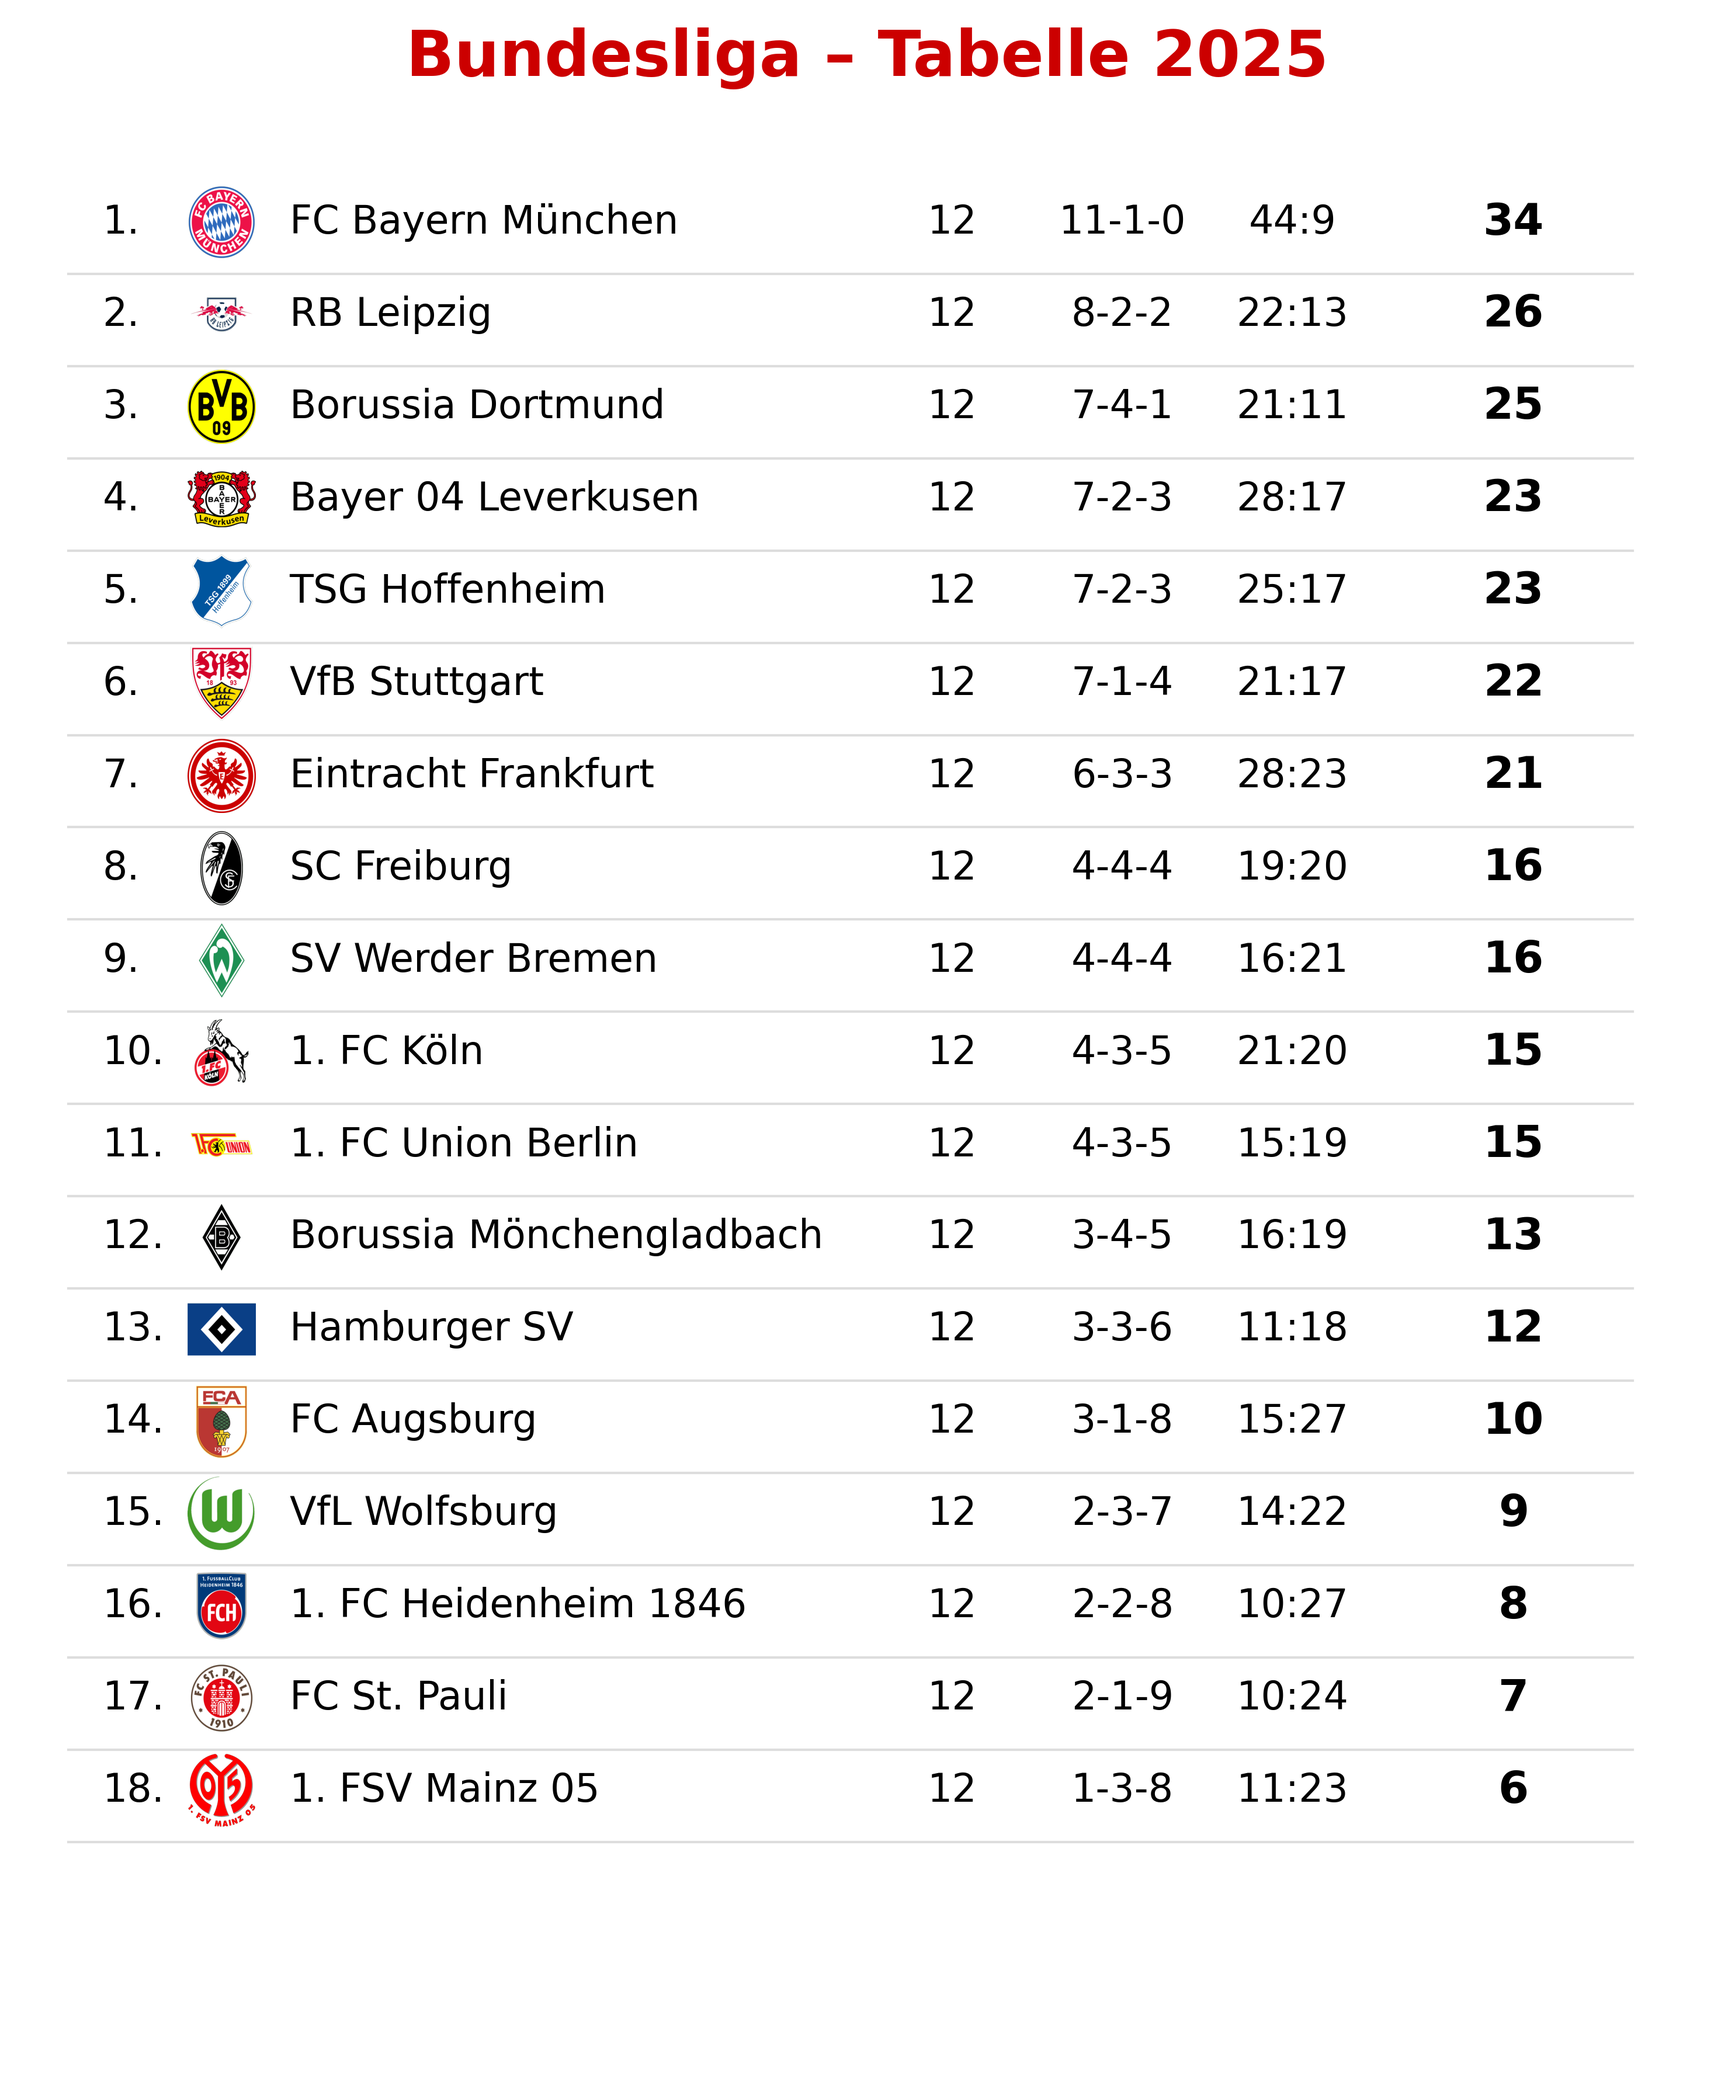
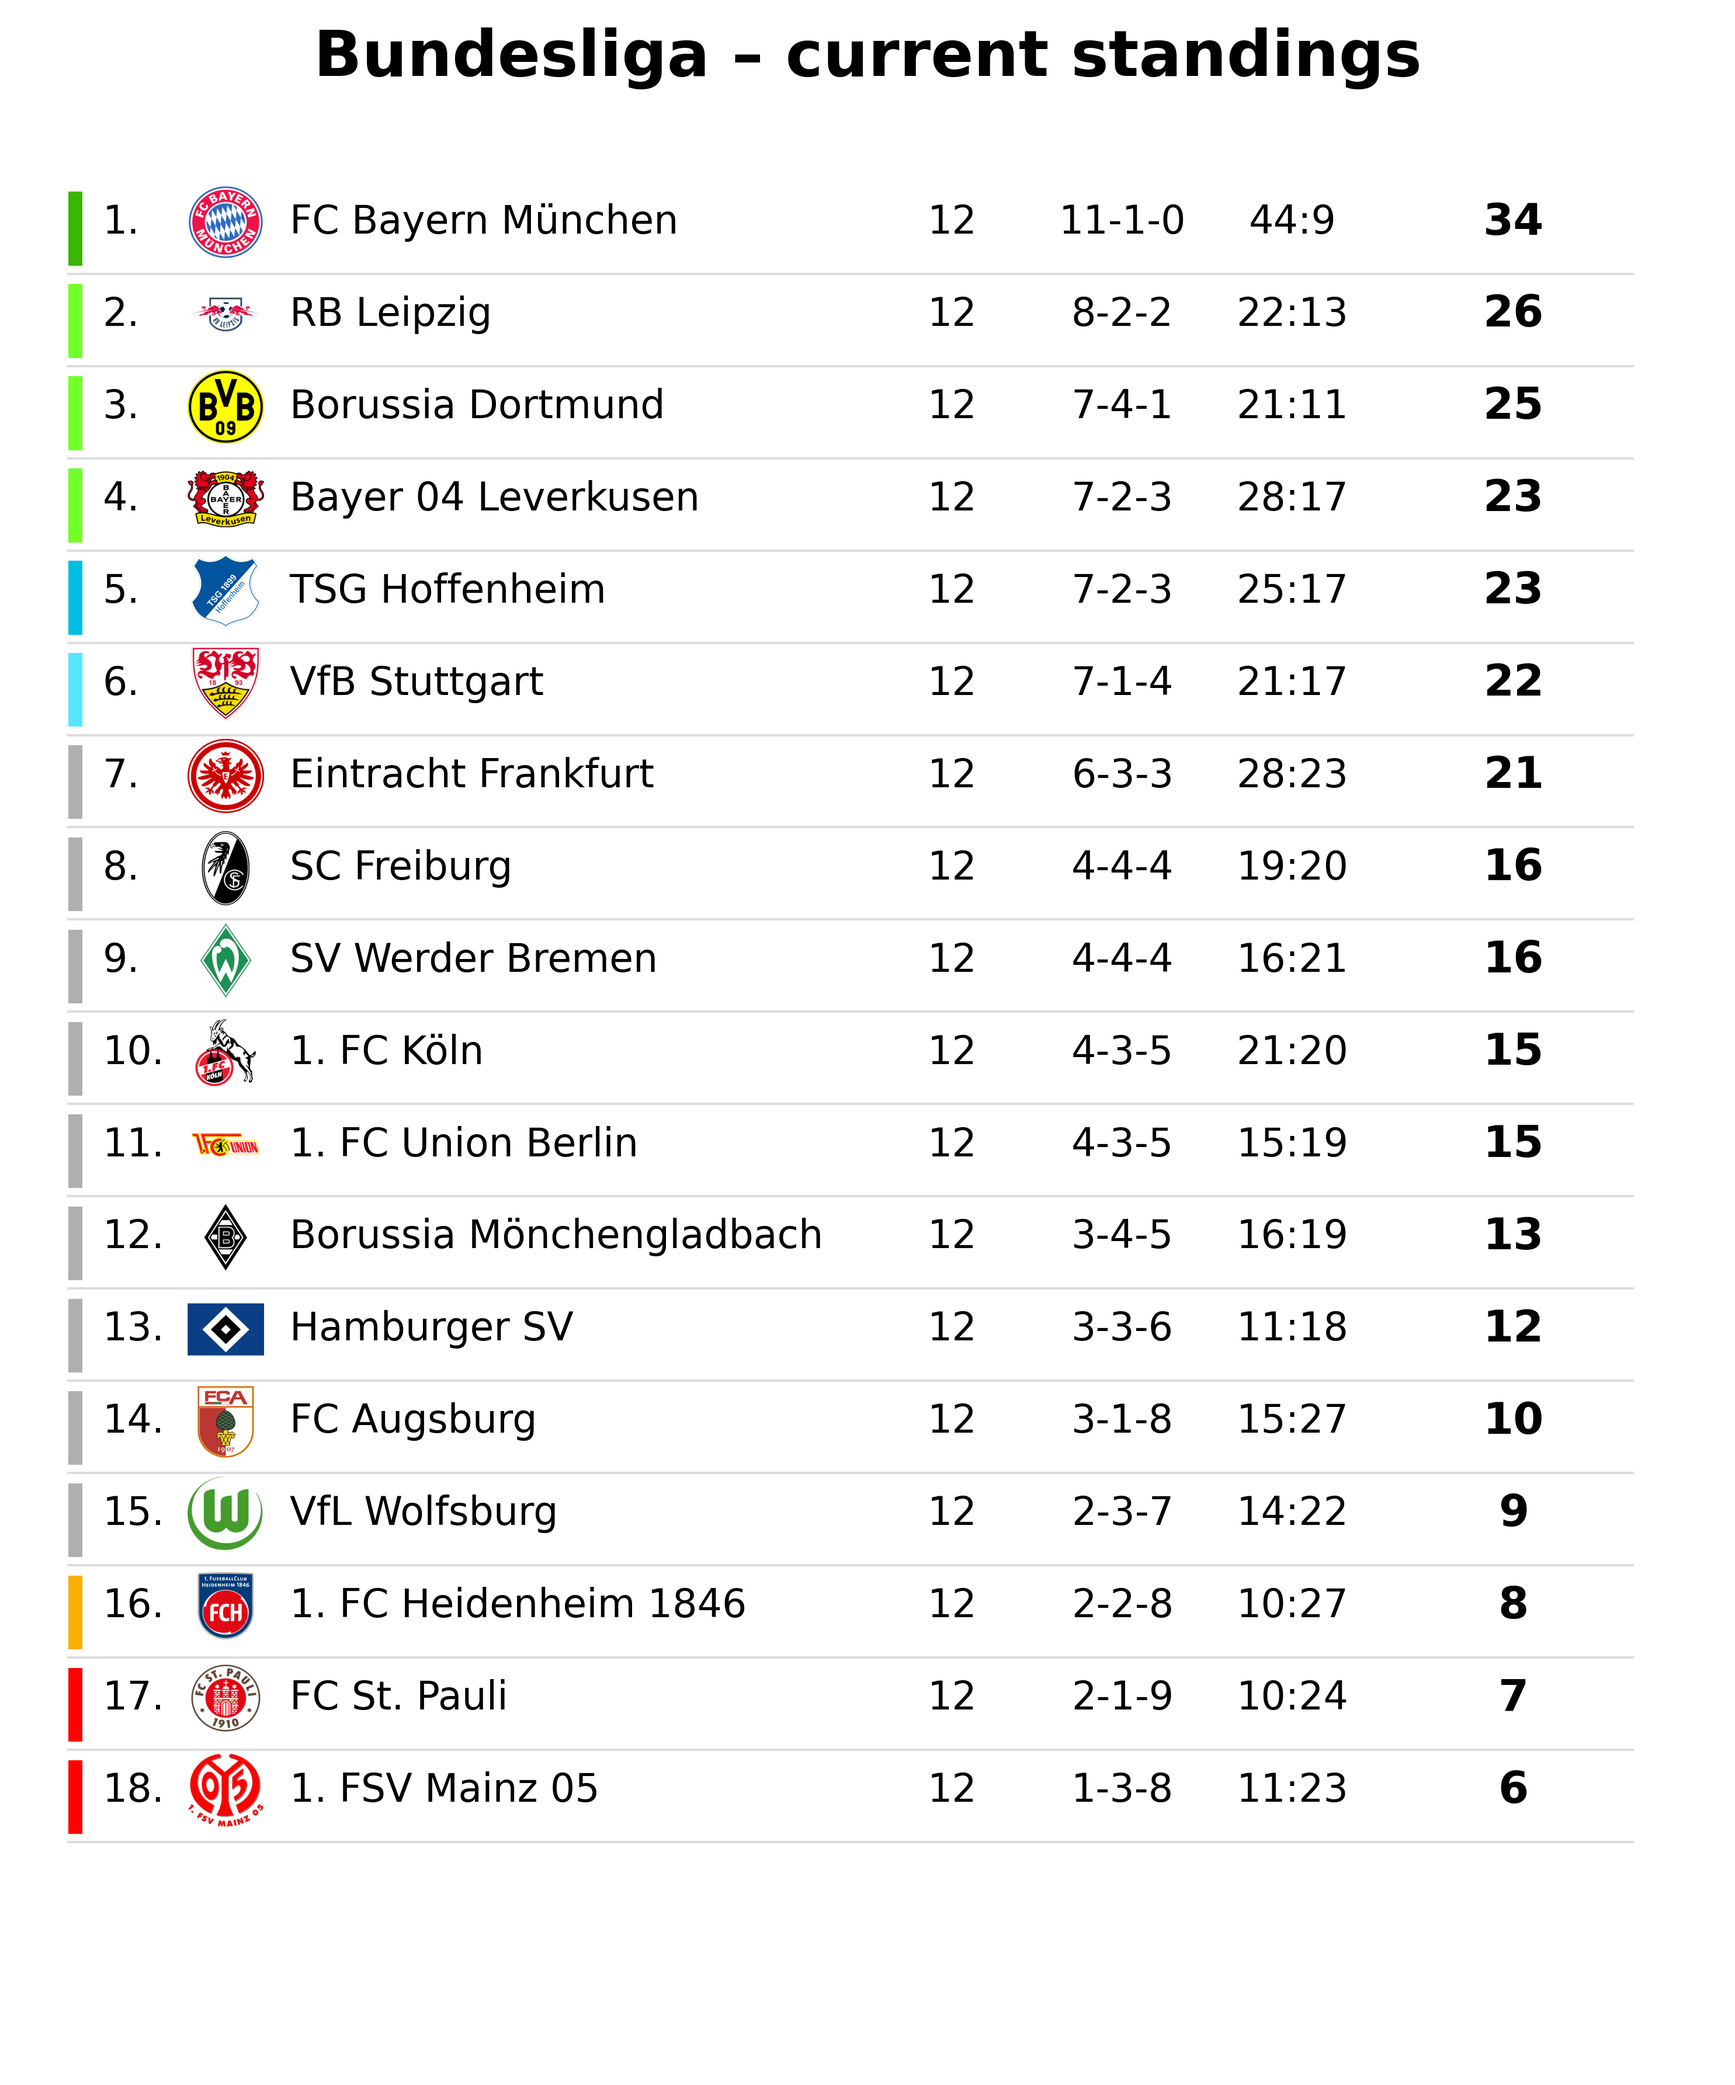
Farbe bei Tabelle

diff --git a/Tabelle.py b/Tabelle.py
@@ -3,6 +3,7 @@ import requests
 import pandas as pd
 import numpy as np
 import matplotlib.pyplot as plt
+import matplotlib.patches as patches
 from PIL import Image as PILImage
 
 
@@ -39,7 +40,7 @@ def render_modern_png(df, logos_dict):
     # Kopf
     ax.text(0.5, 0.98, "Bundesliga – current standings",
             ha="center", va="center",
-            fontsize=26, fontweight="bold", color="#CC0000")
+            fontsize=26, fontweight="bold", color="#000000")
 
     # Startposition (oben) und Zeilenabstand
     start_y = 0.90
@@ -48,6 +49,32 @@ def render_modern_png(df, logos_dict):
     for idx, row in df.iterrows():
         y = start_y - idx * step
 
+        platz = int(row['Rang'])
+
+        if platz == 1:
+            farbe = "#38B602"
+        elif platz == 2 or platz == 3 or platz == 4:
+            farbe = "#73FF28"
+        elif platz == 5:
+            farbe = "#00BEE4"
+        elif platz == 6:
+            farbe = "#57E6FF"
+        elif platz == 16:
+            farbe = "#FAAF00"
+        elif platz == 17 or platz == 18:
+            farbe = "#FF0101"
+        else:
+            farbe = "#AFAFAF"
+
+        ax.add_patch(
+        patches.Rectangle(
+            (0.03, y - 0.021),   # (x, y) Startpunkt unten links
+            0.008,               # Breite des Kastens
+            0.036,               # Höhe des Kastens (gleiche Höhe wie das Logo)
+            facecolor= farbe, # Farbe
+            edgecolor="none",
+            zorder=1)
+        )
         # Rang
         ax.text(0.05, y, f"{int(row['Rang'])}.",
                 fontsize=16, va="center", ha="left")
@@ -60,7 +87,7 @@ def render_modern_png(df, logos_dict):
                 # in numpy-array konvertieren und passende Extent setzen
                 logo_arr = np.array(logo)
                 # Extent: (left, right, bottom, top) in data coords (we work in 0..1)
-                left, right = 0.10, 0.14
+                left, right = 0.10, 0.145
                 bottom, top = y - 0.018, y + 0.018
                 ax.imshow(logo_arr, extent=(left, right, bottom, top),
                           aspect='auto', zorder=2)
@@ -118,3 +145,6 @@ def main():
 
     #
     render_modern_png(df, logos_dict)
+
+
+main()
